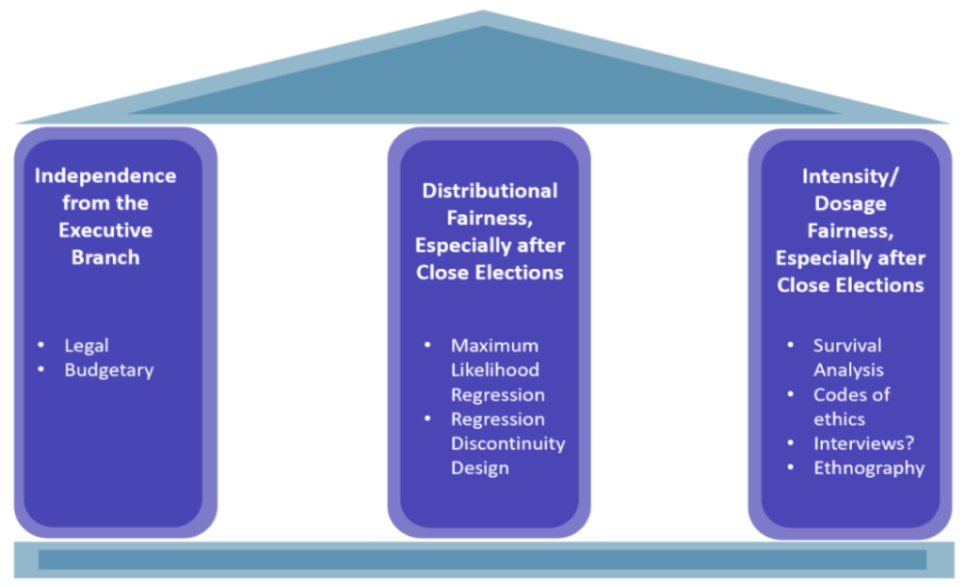
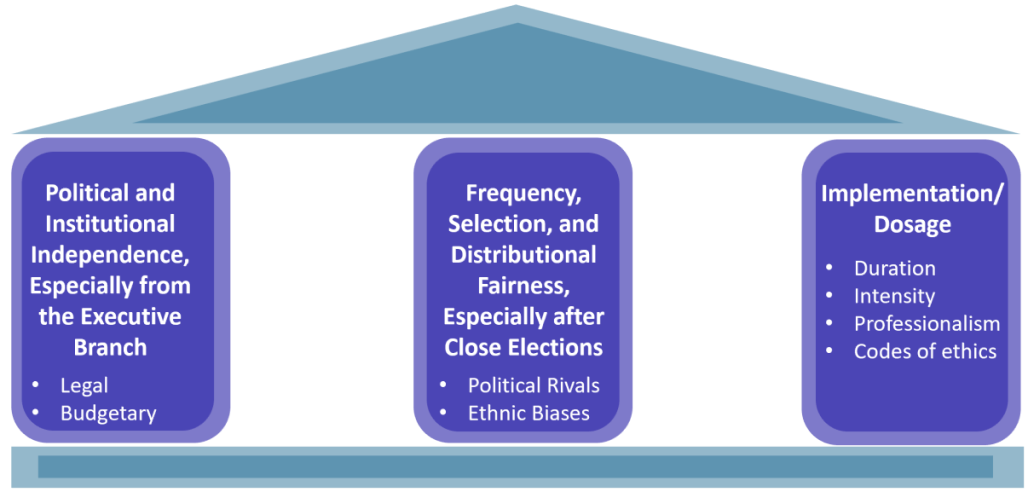
commit

Changed region(s): [[0.0, 0.0, 1.0, 1.0]]

diff --git a/_pages/research.md b/_pages/research.md
@@ -18,12 +18,12 @@ author_profile: yes
 ### Academic Working Papers
 
 <p style="float: left; font-size: 12pt; text-align: left; width: 49%; margin-right: 1%; margin-bottom: 0.5em;">"<a href="https://mikedenly.com/research/poverty-alignment-corruption2">Poverty, Party Alignment, and Reducing Corruption through Modernization: Evidence from Guatemala</a>."<i> Under Review</i> (with Akshat Gautam).<a href="https://mikedenly.com/research/poverty-alignment-corruption2"><img src="/images/prop1and2.png" style="width: 100%"></a></p>
-<p style="float: right; font-size: 12pt; text-align: left; width: 47%; margin-right: 1%; margin-bottom: 0.5em;">"<a href="https://mikedenly.com/research/audit-measurement">Measuring Corruption Using Governmental Audits: A New Framework and Dataset</a>."<i>Working Paper.</i><a href="https://mikedenly.com/research/audit-measurement"><img src="/images/ev.png" style="width: 100%"></a></p> 
+<p style="float: right; font-size: 12pt; text-align: left; width: 47%; margin-right: 1%; margin-bottom: 0.5em;">"<a href="https://mikedenly.com/research/audit-measurement">Measuring Corruption Using Governmental Audits: A New Framework and Dataset</a>."<i>Working Paper.</i><a href="https://mikedenly.com/research/audit-measurement"><img src="/images/new_pillars.png" style="width: 100%"></a></p> 
 <p class="" style="margin: 100px;"></p>
 
-[Monitoring Corruption and Overcoming the Collective Action Problem: Experimental Evidence from Pakistan](/research/monitoring-corruption-collective-action-problem). (with Torben Behmer, Mobin Piracha, and Adi Tantravahi) 
-
-[Institutional Autonomy and Donor Strategic Interest in Multilateral Foreign Aid: Rules vs. Informal Influence](/research/aid-strategic).
+<p style="float: left; font-size: 12pt; text-align: left; width: 49%; margin-right: 1%; margin-bottom: 0.5em;">"<a href="https://mikedenly.com/research/aid-strategic">Institutional Autonomy and Donor Strategic Interest in Multilateral Foreign Aid: Rules vs. Informal Influence</a>."<i> Under Review</i>. <a href="https://mikedenly.com/research/aid-strategic"><img src="/images/foreign_aid.png" style="width: 100%"></a></p>
+<p style="float: right; font-size: 12pt; text-align: left; width: 47%; margin-right: 1%; margin-bottom: 0.5em;">"<a href="https://mikedenly.com/research/audit-measurement">Monitoring Corruption and Overcoming the Collective Action Problem: Experimental Evidence from Pakistan</a>."<i>Pre-Analysis Plan.</i> (with Torben Behmer, Mobin Piracha, and Adi Tantravahi). <a href="https://mikedenly.com/research/audit-measurement"><img src="/images/trace1row.png" style="width: 100%"></a></p> 
+<p class="" style="margin: 100px;"></p>
 
 ### Policy Publications 
 
